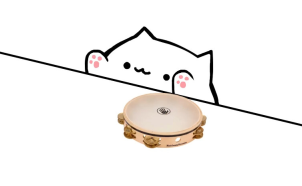
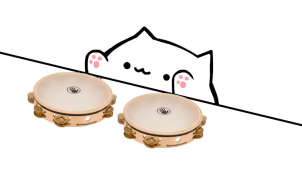
track 2 cat fix (#72)

Changed region(s): [[0.0894, 0.3763, 0.3874, 0.6989]]

diff --git a/src/main.rs b/src/main.rs
@@ -833,7 +833,11 @@ async fn ui_main(
     let cat_down_right: Texture2D = load_texture("uigraphics/cat_down_right.png").await.unwrap();
 
     let cat_cymbal_up: Texture2D = load_texture("uigraphics/cat_cymbal_up.png").await.unwrap();
-    let cat_cymbal_down: Texture2D = load_texture("uigraphics/cat_cymbal_down.png")
+    let cat_cymbal_down_left: Texture2D = load_texture("uigraphics/cat_cymbal_down_left.png")
+        .await
+        .unwrap();
+
+    let cat_cymbal_down_right: Texture2D = load_texture("uigraphics/cat_cymbal_down_right.png")
         .await
         .unwrap();
 
@@ -1024,7 +1028,7 @@ async fn ui_main(
 
             if cat_1_seen || !sequencer.tracks[0].silenced {
                 if is_step_hit(0, sequencer) && sequencer.playing {
-                    if sequencer.tracks[3].current_step % 2 == 0 {
+                    if sequencer.tracks[0].current_step % 2 == 0 {
                         draw_texture(cat_down_right, 750., 200., WHITE);
                     } else {
                         draw_texture(cat_down_left, 750., 200., WHITE);
@@ -1037,7 +1041,11 @@ async fn ui_main(
 
             if cat_2_seen || !sequencer.tracks[1].silenced {
                 if is_step_hit(1, sequencer) && sequencer.playing {
-                    draw_texture(cat_cymbal_down, 750., 400., WHITE);
+                    if sequencer.tracks[1].current_step % 2 == 0 {
+                        draw_texture(cat_cymbal_down_left, 750., 400., WHITE);
+                    } else {
+                        draw_texture(cat_cymbal_down_right, 750., 400., WHITE);
+                    }
                     cat_2_seen = true;
                 } else {
                     draw_texture(cat_cymbal_up, 750., 400., WHITE);
